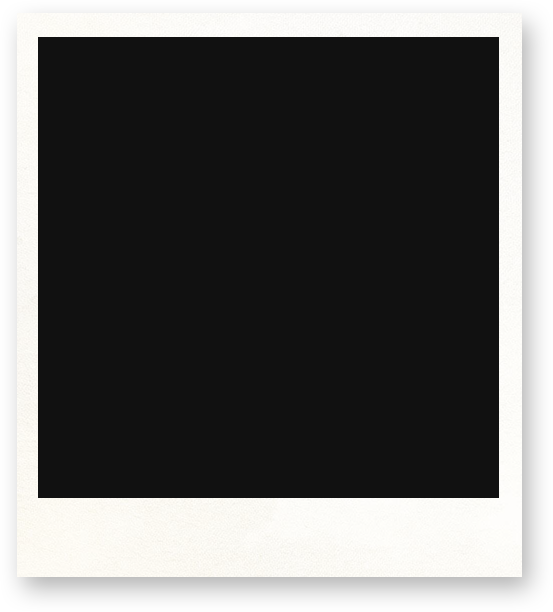
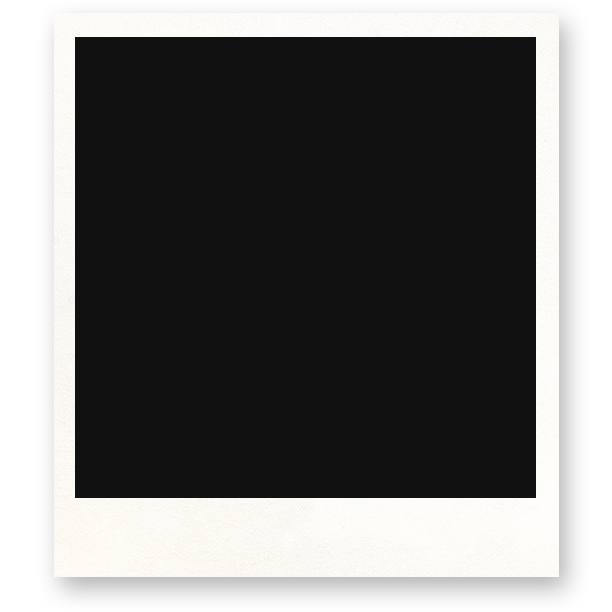
Arrumando dimensoes do frame

Changed region(s): [[0.8608, 0.031, 0.9837, 0.9624], [0.0615, 0.0621, 0.123, 0.8382], [0.0307, 0.9314, 0.123, 0.9624]]

diff --git a/sketch.js b/sketch.js
@@ -2,7 +2,7 @@
 //////////////////////////////////////////////////////////////////////////////////// // 
 //////////////////////////////////////////////////////////////////////////////////// // 
 //Visual variables
-var loadedFont, loadedFrame, loadedBackground;
+var loadedFont, loadedFrame, loadedBackground, picx, picy, picsw, picsh;
 var inputString, pressed, counter, pressedkey, textInputSize;
 var w, h, centerx, centery;
 var button_scale;
@@ -17,7 +17,7 @@ var person_picture;
 var CURRENT_DIFFICULTY;
 var clock_to_next_level;
 
-var PATH = "assets/";
+var PATH = "https://peopleguesser.github.io/assets/";//"assets/";
 //#endregion
 
 function preload() {
@@ -25,7 +25,7 @@ function preload() {
 	//Load fonts and images
 	loadedFont = loadFont(PATH + "font.otf");
 	loadedBackground = loadImage(PATH + "background.png");
-	loadedFrame = loadImage(PATH + "frame.png");
+	loadedFrame = loadImage(PATH + "photoframe.png");
 }
 
 function setup() {
@@ -100,7 +100,7 @@ function draw() {
 	//////////////////////////////////////////////////////////////////////////////////// // 
 	//////////////////////////////////////////////////////////////////////////////////// // 
 	//Photo
-	sizeh = medium_width;
+	sizeh = medium_width*1.1;
 	sizew = sizeh;
 	posy = (h*0.4);
 
@@ -112,8 +112,10 @@ function draw() {
 	rect(centerx - sizew*0.5, posy - sizeh*0.5, sizew, sizeh, sizew*0.02);
 
 	//Picture
+	if (loadedFrame)
+		image(loadedFrame, centerx - sizew*0.5, posy - sizeh*0.5, sizew, sizeh);
 	if (person_picture)
-		image(person_picture, centerx - sizew*0.5, posy - sizeh*0.5, sizew, sizeh);
+		//image(person_picture, centerx - sizew*0.5, posy - sizeh*0.5, sizew, sizeh);
 
 	//////////////////////////////////////////////////////////////////////////////////// // 
 	//////////////////////////////////////////////////////////////////////////////////// // 
@@ -294,7 +296,35 @@ function requestNewPerson(dificulty)
 {
 	//Request new
 	CORRECT_ANSWER = "Pedro Álvares Cabral";
+
+	//Picture
 	person_picture = loadImage("https://upload.wikimedia.org/wikipedia/commons/thumb/6/6a/Pedro_Alvares_Cabral.jpg/200px-Pedro_Alvares_Cabral.jpg");
+	if (person_picture.width == person_picture.height)
+	{
+		picx = 0;
+		picy = 0;
+		picsw = person_picture.width;
+		picsh = person_picture.height;
+	}
+	else
+	if (person_picture.width > person_picture.height)
+	{
+		var dif = person_picture.width - person_picture.height;
+		picx = dif * 0.5;
+		picy = 0;
+		picsw = person_picture.height;
+		picsh = person_picture.height;
+	}
+	else
+	{
+		var dif = person_picture.height - person_picture.width;
+		picx = 0;
+		picy = dif * 0.5;
+		picsw = person_picture.width;
+		picsh = person_picture.width;
+	}
+
+	//Hint
 	person_hint = "";
 }
 //#endregion
